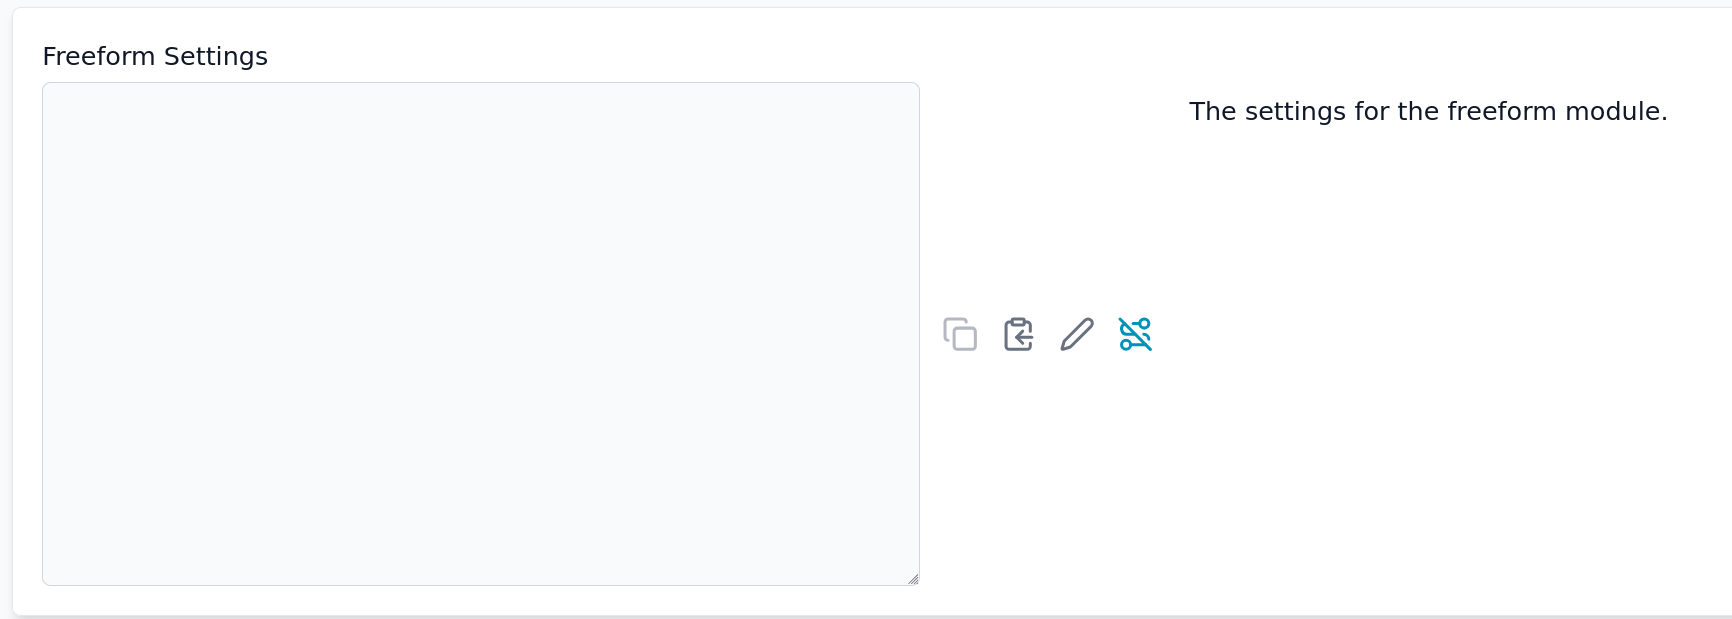
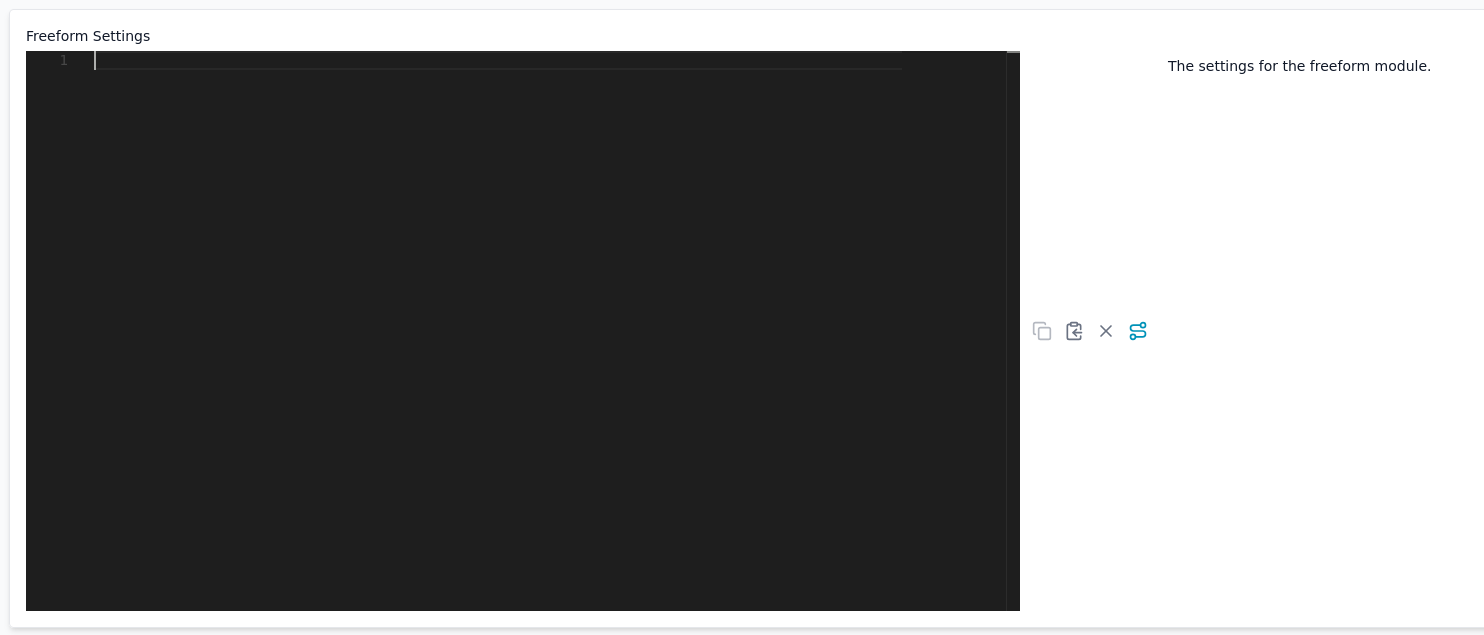
feat: update MonacoTextarea to support dynamic language selection and enhance Nix language module documentation

diff --git a/frontend/src/lib/config/ConfigTextAreaCode.svelte b/frontend/src/lib/config/ConfigTextAreaCode.svelte
@@ -3,6 +3,7 @@
 	import { Tooltip } from 'flowbite-svelte';
 	import { onMount } from 'svelte';
 	import { browser } from '$app/environment';
+	import type { TextAreaCodeSettingType } from '$lib/state';
 	// import MonacoTextarea from '$lib/components/MonacoTextarea.svelte';
 
 	interface Props {
@@ -10,9 +11,10 @@
 		value: unknown;
 		onChange?: (value: string) => void;
 		disabled: boolean;
+		setting: TextAreaCodeSettingType;
 	}
 
-	let { placeholder, value, onChange = () => {}, disabled }: Props = $props();
+	let { placeholder, value, onChange = () => {}, disabled, setting }: Props = $props();
 	let MonacoTextarea: typeof import('$lib/components/MonacoTextarea.svelte').default = $state();
 	onMount(async () => {
 		MonacoTextarea = (await import('$lib/components/MonacoTextarea.svelte')).default;
@@ -20,7 +22,7 @@
 </script>
 
 {#if browser}
-	<MonacoTextarea {placeholder} {onChange} {value} {disabled} />
+	<MonacoTextarea {placeholder} {onChange} {value} {disabled} languages={setting.language} />
 {/if}
 {#if disabled}
 	<Tooltip type="auto" placement={'top'}>{$t('config.editDisabled')}</Tooltip>

diff --git a/frontend/src/lib/components/MonacoTextarea.svelte b/frontend/src/lib/components/MonacoTextarea.svelte
@@ -13,6 +13,7 @@
 		onChange?: (value: string) => void;
 		value: string | null;
 		disabled: boolean;
+		language?: string;
 	} = $props();
 
 	onMount(async () => {
@@ -27,7 +28,7 @@
 		// Your monaco instance is ready, let's display some code!
 		editor = monaco.editor.create(editorContainer, {
 			value: props.value || '',
-			language: 'nix',
+			language: props.language || 'nix',
 			theme: 'vs-dark',
 			readOnly: props.disabled
 		});

diff --git a/docs/src/lib/docs/external-projects/thymis-modules/nix-language-module.md b/docs/src/lib/docs/external-projects/thymis-modules/nix-language-module.md
@@ -1,40 +1,68 @@
 # Using the Nix language module
 
-The Nix language module allows you to write Nix expressions to configure devices directly in Thymis. This is particularly useful when you are testing options or want to quickly prototype a configuration without creating a full Thymis module.
+The **Nix language module** allows you to write NixOS modules directly in Thymis device configurations or tags.
+This is particularly useful for testing options quickly or prototyping a configuration without creating a standalone Thymis module.
 
-Start by adding a "Custom Module" to your device or tag. You can do this by clicking the **Plus** button in the **Modules** section of the device or tag configuration page.
+## Adding the module
+
+Start by adding a **Custom Module** to your device configuration or tag.
+Do this by clicking the **+ Add Module** button in the **Modules** section of the configuration or tag page.
 
 ![Add Custom Module](./add-custom-module.png)
 
-Once added, select the **Custom Module** from the list of loaded modules. In the configuration section, you will find a text area where you can write your Nix expressions.
+Once added, you will see the **Custom Module** in the list of modules.
+Its configuration section provides a text editor where you can write your Nix expression.
 
 ![Custom Module Configuration](./custom-module-configuration.png)
 
-The configuration you write here will be placed in the body of a NixOS module, which is then applied to the device when it is deployed.
+## Writing a full NixOS module (recommended)
 
-The exact template used is:
+The editor accepts a **complete NixOS module** in the usual function/attribute set form:
 
 ```nix
 { pkgs, lib, inputs, config, ... }:
+
 {
-  # Your NixOS module configuration goes here
+  environment.systemPackages = with pkgs; [ vim htop ];
+  services.openssh.enable = true;
 }
 ```
 
-For example, to install vim on the device:
+
+This is the recommended way of using the Nix language module, since it matches the standard NixOS module structure used in `configuration.nix` and flake-based systems.
+
+## Legacy style: only the module body
+
+For backwards compatibility, you may also provide only the body of a module:
 
 ```nix
 environment.systemPackages = with pkgs; [ vim ];
+```
+
+This will continue to work, but is not the recommended style for new projects.
+
+## Example
+
+For example, to install Vim on a device:
+
+```nix
+{ pkgs, ... }:
+{
+  environment.systemPackages = with pkgs; [ vim ];
+}
 ```
 
 Like this:
 
 ![Custom Module Example](./custom-module-example.png)
 
-For guidance on how to write NixOS modules, see [Nix 101 - Configuring Devices with Nix](../../external-projects/packaging-software/nix-101.md#configuring-devices-with-nix).
+## Notes
 
-You can consult resources online, such as the [NixOS wiki](https://wiki.nixos.org/wiki/NixOS_modules) or the [NixOS manual](https://nixos.org/manual/nixos/stable/) to learn more about how to write NixOS modules and what options are available.
+- Device configurations created this way are merged with other modules and tags, following the usual [priority rules](../thymis-modules.md#module-priority-and-inheritance).
 
-We recommend using the [Nixpkgs search](https://search.nixos.org/packages) to find available packages and the [NixOS options search](https://search.nixos.org/options) to find available configuration options.
+## Further resources
 
-Tip: Want to run Python code on your devices? See [Using the Python language module (coming soon)](python-language-module.md) for a workaround using `pkgs.writers.writePython3`.
+- [Nix 101 – Configuring Devices with Nix](../../external-projects/packaging-software/nix-101.md#configuring-devices-with-nix)
+- [NixOS manual](https://nixos.org/manual/nixos/stable/) — complete overview of NixOS options
+- [Nixpkgs search](https://search.nixos.org/packages) — to look up available packages
+- [NixOS options search](https://search.nixos.org/options) — to explore configuration options
